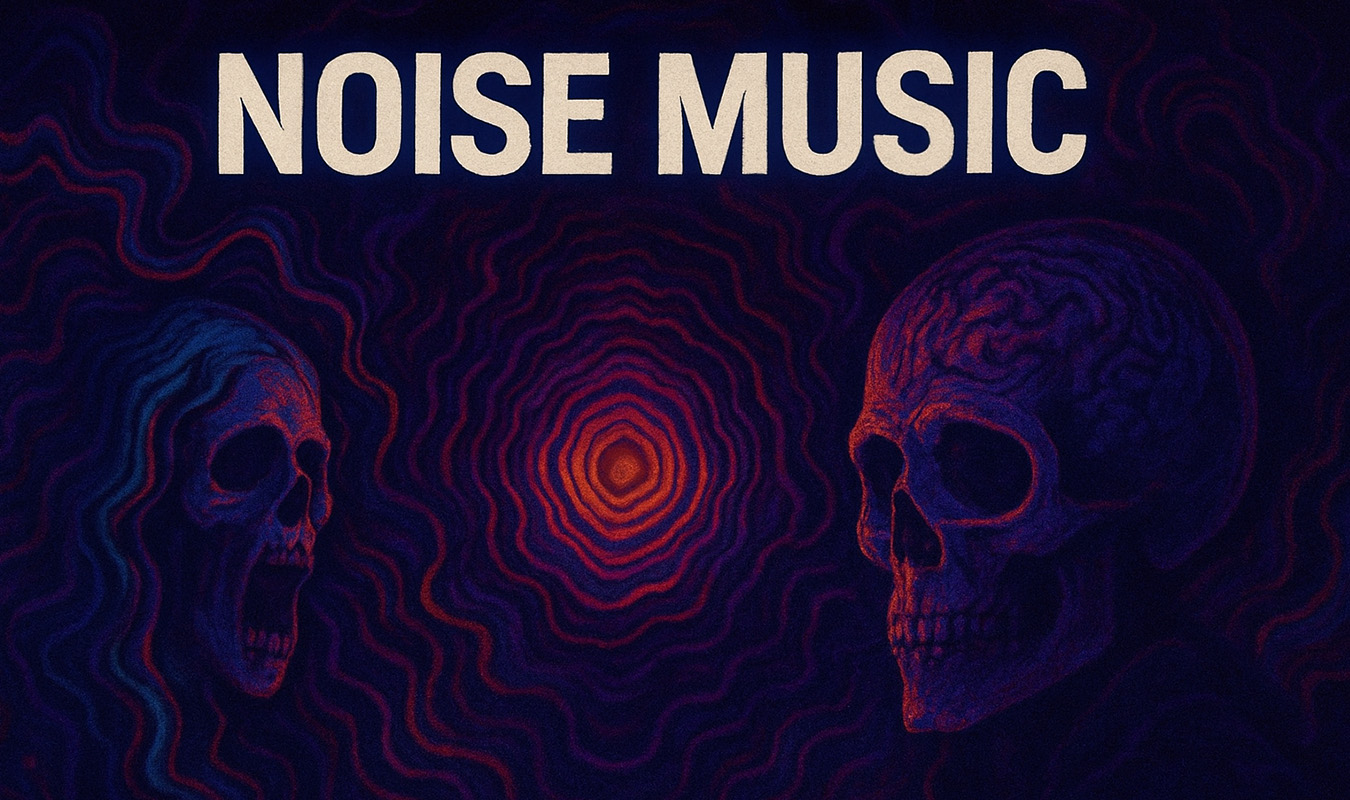
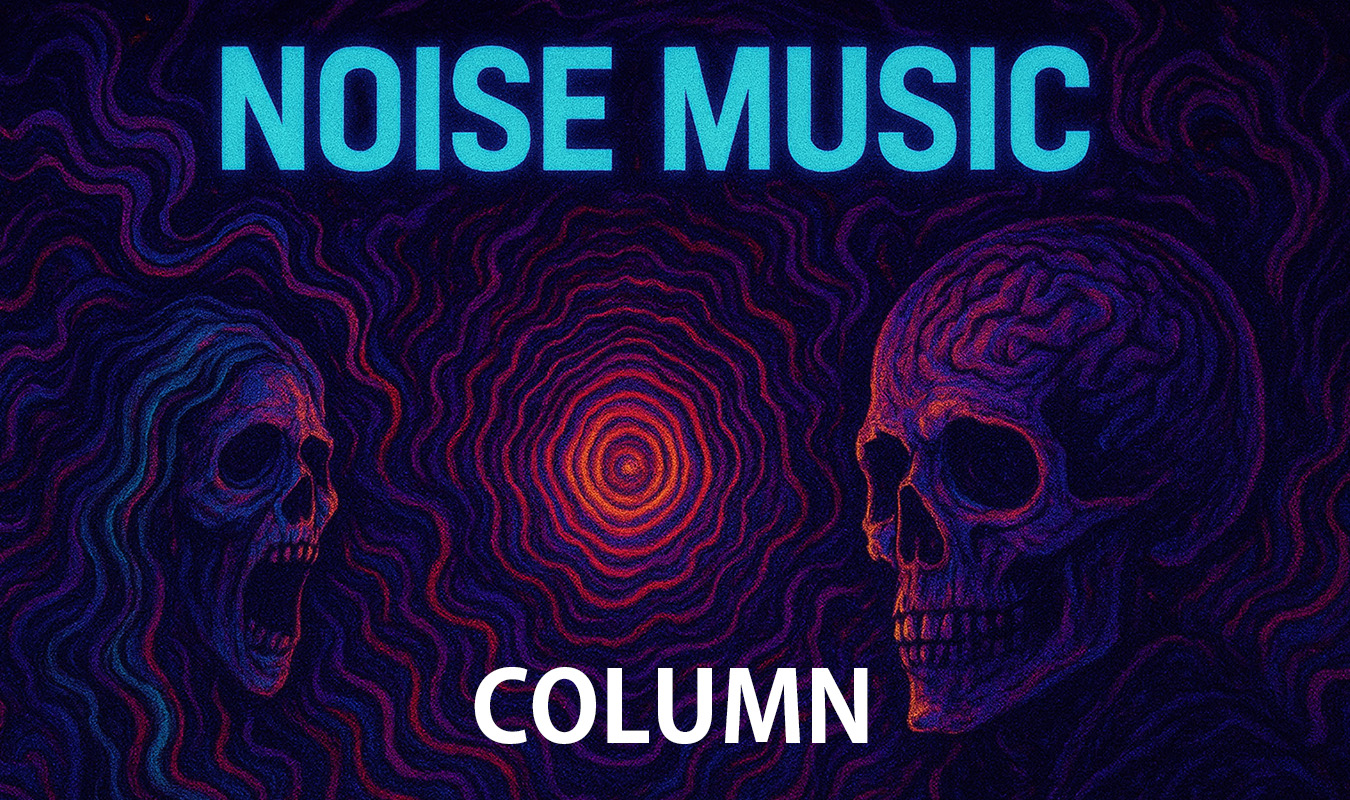
updated

diff --git a/_posts/2025-09-04-Pickup-Noise-Music.md b/_posts/2025-09-04-Pickup-Noise-Music.md
@@ -1,0 +1,215 @@
+---
+layout: post
+title:  "ノイズミュージック(Noise Music)作品をピックアップ"
+author: mmr
+categories: [ Pickup ]
+tags: [ Noise, Experimental,  ]
+image: ../assets/images/pickup-noise-music.webp
+---
+
+「音楽の境界を超える、純粋な音響体験、ノイズミュージック(Noise Music)作品群」
+
+<hr>
+
+### Merzbow – Merzbird
+<a href="https://monumental-movement.jp/Merzbow-Merzbird/"><img src="../assets/images/Merzbow%20%E2%80%93%20Merzbird.jpg"></a>
+
+- **背景**：日本ノイズの最重要人物Merzbow。2004年、Important Recordsからの作品で、鳥類タイトルの曲群が並ぶ時期の一枚。  
+- **聴きどころ**：高密度の帯域が入れ替わる“音の洪水”。ノイズの「彫刻性」を体感できる決定打。
+
+#### Tracklist
+```md
+1. Black Swan
+2. Mandarin Duck
+3. Emu
+4. Victoria Crowned Pigeon
+5. White Peafowl
+```
+
+
+[メルカリで購入](https://jp.mercari.com/item/m86594770909?afid=6142608987){: .button1}
+
+
+#### Youtube
+<iframe width="560" height="315" src="https://www.youtube.com/embed/Zlf90ifE4kA?si=YBIoUjE4WsW1yEbk" title="YouTube video player" frameborder="0" allow="accelerometer; autoplay; clipboard-write; encrypted-media; gyroscope; picture-in-picture; web-share" referrerpolicy="strict-origin-when-cross-origin" allowfullscreen></iframe>
+<hr>
+<br>
+
+
+
+
+### Zeni Geva – Desire For Agony
+<a href="https://monumental-movement.jp/Zeni-Geva-Desire-For-Agony/"><img src="../assets/images/Zeni%20Geva%20%E2%80%93%20Desire%20For%20Agony.jpg"></a>
+
+- **背景**：1987年東京結成。KK.Nullと吉田達也を要に、プログレ／HC／メタル／ノイズロックを横断。1993年にシカゴで録音。  
+- **聴きどころ**：骨太リフから即興的爆裂まで、アグレッシブな音像の振れ幅。ノイズとロックの交差点の代表格。
+
+#### Tracklist
+```md
+A1. Stigma = スティグマ
+A2. Dead Sun Rising = デッドサンライジング
+A3. Desire For Agony = 苦痛志向
+A4. Heathern Blood = ヒーズンブラッド
+A5. Disgraceland = ディスグレイスランド
+
+B1. Whiteout = ホワイトアウト
+B2. Love Bite = ラヴバイト
+B3. Autopsy Love = オートプシィラブ
+B4. The Body = ザ ボディー
+```
+
+
+[メルカリで購入](https://jp.mercari.com/item/m93829720298?afid=6142608987){: .button1}
+
+
+#### Youtube
+<iframe width="560" height="315" src="https://www.youtube.com/embed/B2GSmBIqj2k?si=zrdl_IbSvKyJ4a8g" title="YouTube video player" frameborder="0" allow="accelerometer; autoplay; clipboard-write; encrypted-media; gyroscope; picture-in-picture; web-share" referrerpolicy="strict-origin-when-cross-origin" allowfullscreen></iframe>
+<hr>
+<br>
+
+
+
+
+### 裸のラリーズ（Les Rallizes Dénudés）– Live 1972
+<a href="https://monumental-movement.jp/Les-Rallizes-Denudes-Live-1972/"><img src="../assets/images/%E8%A3%B8%E3%81%AE%E3%83%A9%E3%83%AA%E3%83%BC%E3%82%BA%20%E2%80%93%20Live%201972.jpg"></a>
+
+- **背景**：1967年、京都で結成。1960–90年代に活動し国内外のノイズロックに多大な影響を与えた伝説的バンド。カルト的人気を維持。  
+- **聴きどころ**：荒涼とした持続音と轟音のドローン、ミニマルに反復するグルーヴ。日本ノイズ・サイケの原体験的質感が直撃。
+
+#### Tracklist
+```md
+1. 造花の原野 (Field of Artificial Flowers)
+2. 夜より深く (More Deeply Than the Night)
+3. 白い目覚め (White Waking)
+4. untitled improvisation
+5. 氷の炎 (Ice Fire)
+6. The Last One
+```
+
+
+[メルカリで購入](https://jp.mercari.com/item/m84819164983?afid=6142608987){: .button1}
+
+
+#### Youtube
+<iframe width="560" height="315" src="https://www.youtube.com/embed/zoaAUptZ0mw?si=io-6qEGs_v6UDWeG" title="YouTube video player" frameborder="0" allow="accelerometer; autoplay; clipboard-write; encrypted-media; gyroscope; picture-in-picture; web-share" referrerpolicy="strict-origin-when-cross-origin" allowfullscreen></iframe>
+<hr>
+<br>
+
+
+
+
+### Hair Stylistics – Impression Of Nasty Dread / Best Of Hair-Style In My Life (7")
+<a href="https://monumental-movement.jp/Hair-Stylistics-Impression-Of-Nasty-Dread-Best-Of-Hair-Style-In-My-Life/"><img src="../assets/images/Hair%20Stylistics%20%E2%80%93%20Impression%20Of%20Nasty%20Dread%20Best%20Of%20Hair-Style%20In%20My%20Life.jpg"></a>
+
+
+- **背景**：中原昌也によるHair Stylistics名義。1999年リリースの7インチで、実験～ノイズ文脈を現在まで牽引。  
+- **聴きどころ**：短尺の中に切断・編集感覚と過剰ノイズの瞬間最大風速が封入。入門にもコレクションにも◎。
+
+#### Tracklist
+```md
+A. Impression Of Nasty Dread
+
+B. Best Of Hair-Style In My Life
+```
+
+
+[メルカリで購入](https://jp.mercari.com/item/m53844058180?afid=6142608987){: .button1}
+
+<br>
+
+
+
+
+### SebastiAn – Smoking Kills
+<a href="https://monumental-movement.jp/SebastiAn-Smoking-Kills/"><img src="../assets/images/SebastiAn%20%E2%80%93%20Smoking%20Kills.jpg"></a>
+
+- **背景**：Ed Banger周辺のフレンチ・エレクトロ旗手。未来派エレクトロに“叫ぶようなノイズ”を注入したシングル。  
+- **聴きどころ**：「Dolami」の鋭角ブレイクスと飽和。クラブ・フォーマットでノイズの質感を楽しむ好例。
+
+#### Tracklist
+```md
+A  Smoking Kills (?)
+
+B1  Dolami
+
+B2  Shoot
+```
+
+
+[メルカリで購入](https://jp.mercari.com/item/m17778455704?afid=6142608987){: .button1}
+
+
+#### Youtube
+<iframe width="560" height="315" src="https://www.youtube.com/embed/MpcsXaeZx7w?si=K2YtAvVZYNwf4xSS" title="YouTube video player" frameborder="0" allow="accelerometer; autoplay; clipboard-write; encrypted-media; gyroscope; picture-in-picture; web-share" referrerpolicy="strict-origin-when-cross-origin" allowfullscreen></iframe>
+<hr>
+<br>
+
+
+
+### Tipsy – Nude On The Moon / Space Golf
+<a href="https://monumental-movement.jp/Tipsy-Nude-On-The-Moon-Space-Golf/"><img src="../assets/images/Tipsy%20%E2%80%93%20Nude%20On%20The%20Moon%20Space%20Golf.jpg"></a>
+
+- **背景**：サンフランシスコのラウンジ・コラージュ・デュオ。アブストラクト／トリップホップ／実験／ノイズ要素が混交。  
+- **聴きどころ**：ローファイ質感×モンドなカットアップ。“耳に優しいノイズ”の入り口としても心地よい。
+
+#### Tracklist
+```md
+A1. Nude On The Moon (Naked Volleyball Mix)
+A2. Nude On The Moon (DJ Friendly Mix)
+
+B1. Space Golf (Balloon Mix)
+B2. Space Golf (Venusian Swing Mix)
+```
+
+
+[メルカリで購入](https://jp.mercari.com/item/m39453173414?afid=6142608987){: .button1}
+
+
+#### Youtube
+<iframe width="560" height="315" src="https://www.youtube.com/embed/PzGx4oDDhAY?si=7ghPeZCVRG_1at2Z" title="YouTube video player" frameborder="0" allow="accelerometer; autoplay; clipboard-write; encrypted-media; gyroscope; picture-in-picture; web-share" referrerpolicy="strict-origin-when-cross-origin" allowfullscreen></iframe>
+<hr>
+<br>
+
+
+
+
+### Buffalo Daughter – WXBD
+<a href="https://monumental-movement.jp/Buffalo-Daughter-WXBD/"><img src="../assets/images/Buffalo%20Daughter%20%E2%80%93%20WXBD.jpg"></a>
+
+- **背景**：日本の実験ロック・トリオ。多彩なリミキサー参加でエレクトロニカ～ノイズの側面が強化された企画盤。  
+- **聴きどころ**：ビッグ・ビート～ブレイクビーツ文脈での音響コラージュ。Corneliusらの手つきも含めて編集の快楽を堪能。
+
+#### Tracklist
+```md
+A1. Great Five Lakes (Kut Masta Kurt Mix)
+A2. Super Blooper (Panda's Goodvibe Mix)
+A3. Great Five Lakes (Cornelius Mix)
+A4. Sky High + Down Sea (Jopolo Mix)
+
+B1. Socks, Drugs And Rock 'N' Roll (Nardone Mix)
+B2. R &amp; B (Rhythm And Basement) (Elite Force Mix)
+B3. Jellyfish Blues (Scratch Pet Land Mix)
+B4. Super Blooper (Remix Live From Lee's Palace, Toronto)
+```
+
+
+[メルカリで購入](https://jp.mercari.com/item/m96206628423?afid=6142608987){: .button1}
+
+
+#### Youtube
+<iframe width="560" height="315" src="https://www.youtube.com/embed/Fu3Rm1g3wnY?si=X83Plhivo9HSub2F" title="YouTube video player" frameborder="0" allow="accelerometer; autoplay; clipboard-write; encrypted-media; gyroscope; picture-in-picture; web-share" referrerpolicy="strict-origin-when-cross-origin" allowfullscreen></iframe>
+<hr>
+<br>
+
+
+
+## まとめ
+
+- **王道の轟音から**入るなら *Merzbird*／裸のラリーズ。  
+- **クラブ文脈で**ノイズの質感を味わうなら *Smoking Kills*。  
+- **コラージュ的アプローチ**なら Hair Stylistics／Tipsy／WXBD。  
+- **自作派**は Eurorackコラムで機材の当たりをつけてから試聴へ。  
+
+---
+
+ノイズは「聴くだけ」ではなく「体験する」音楽。ぜひリンク先からさらに深掘りしてください。
